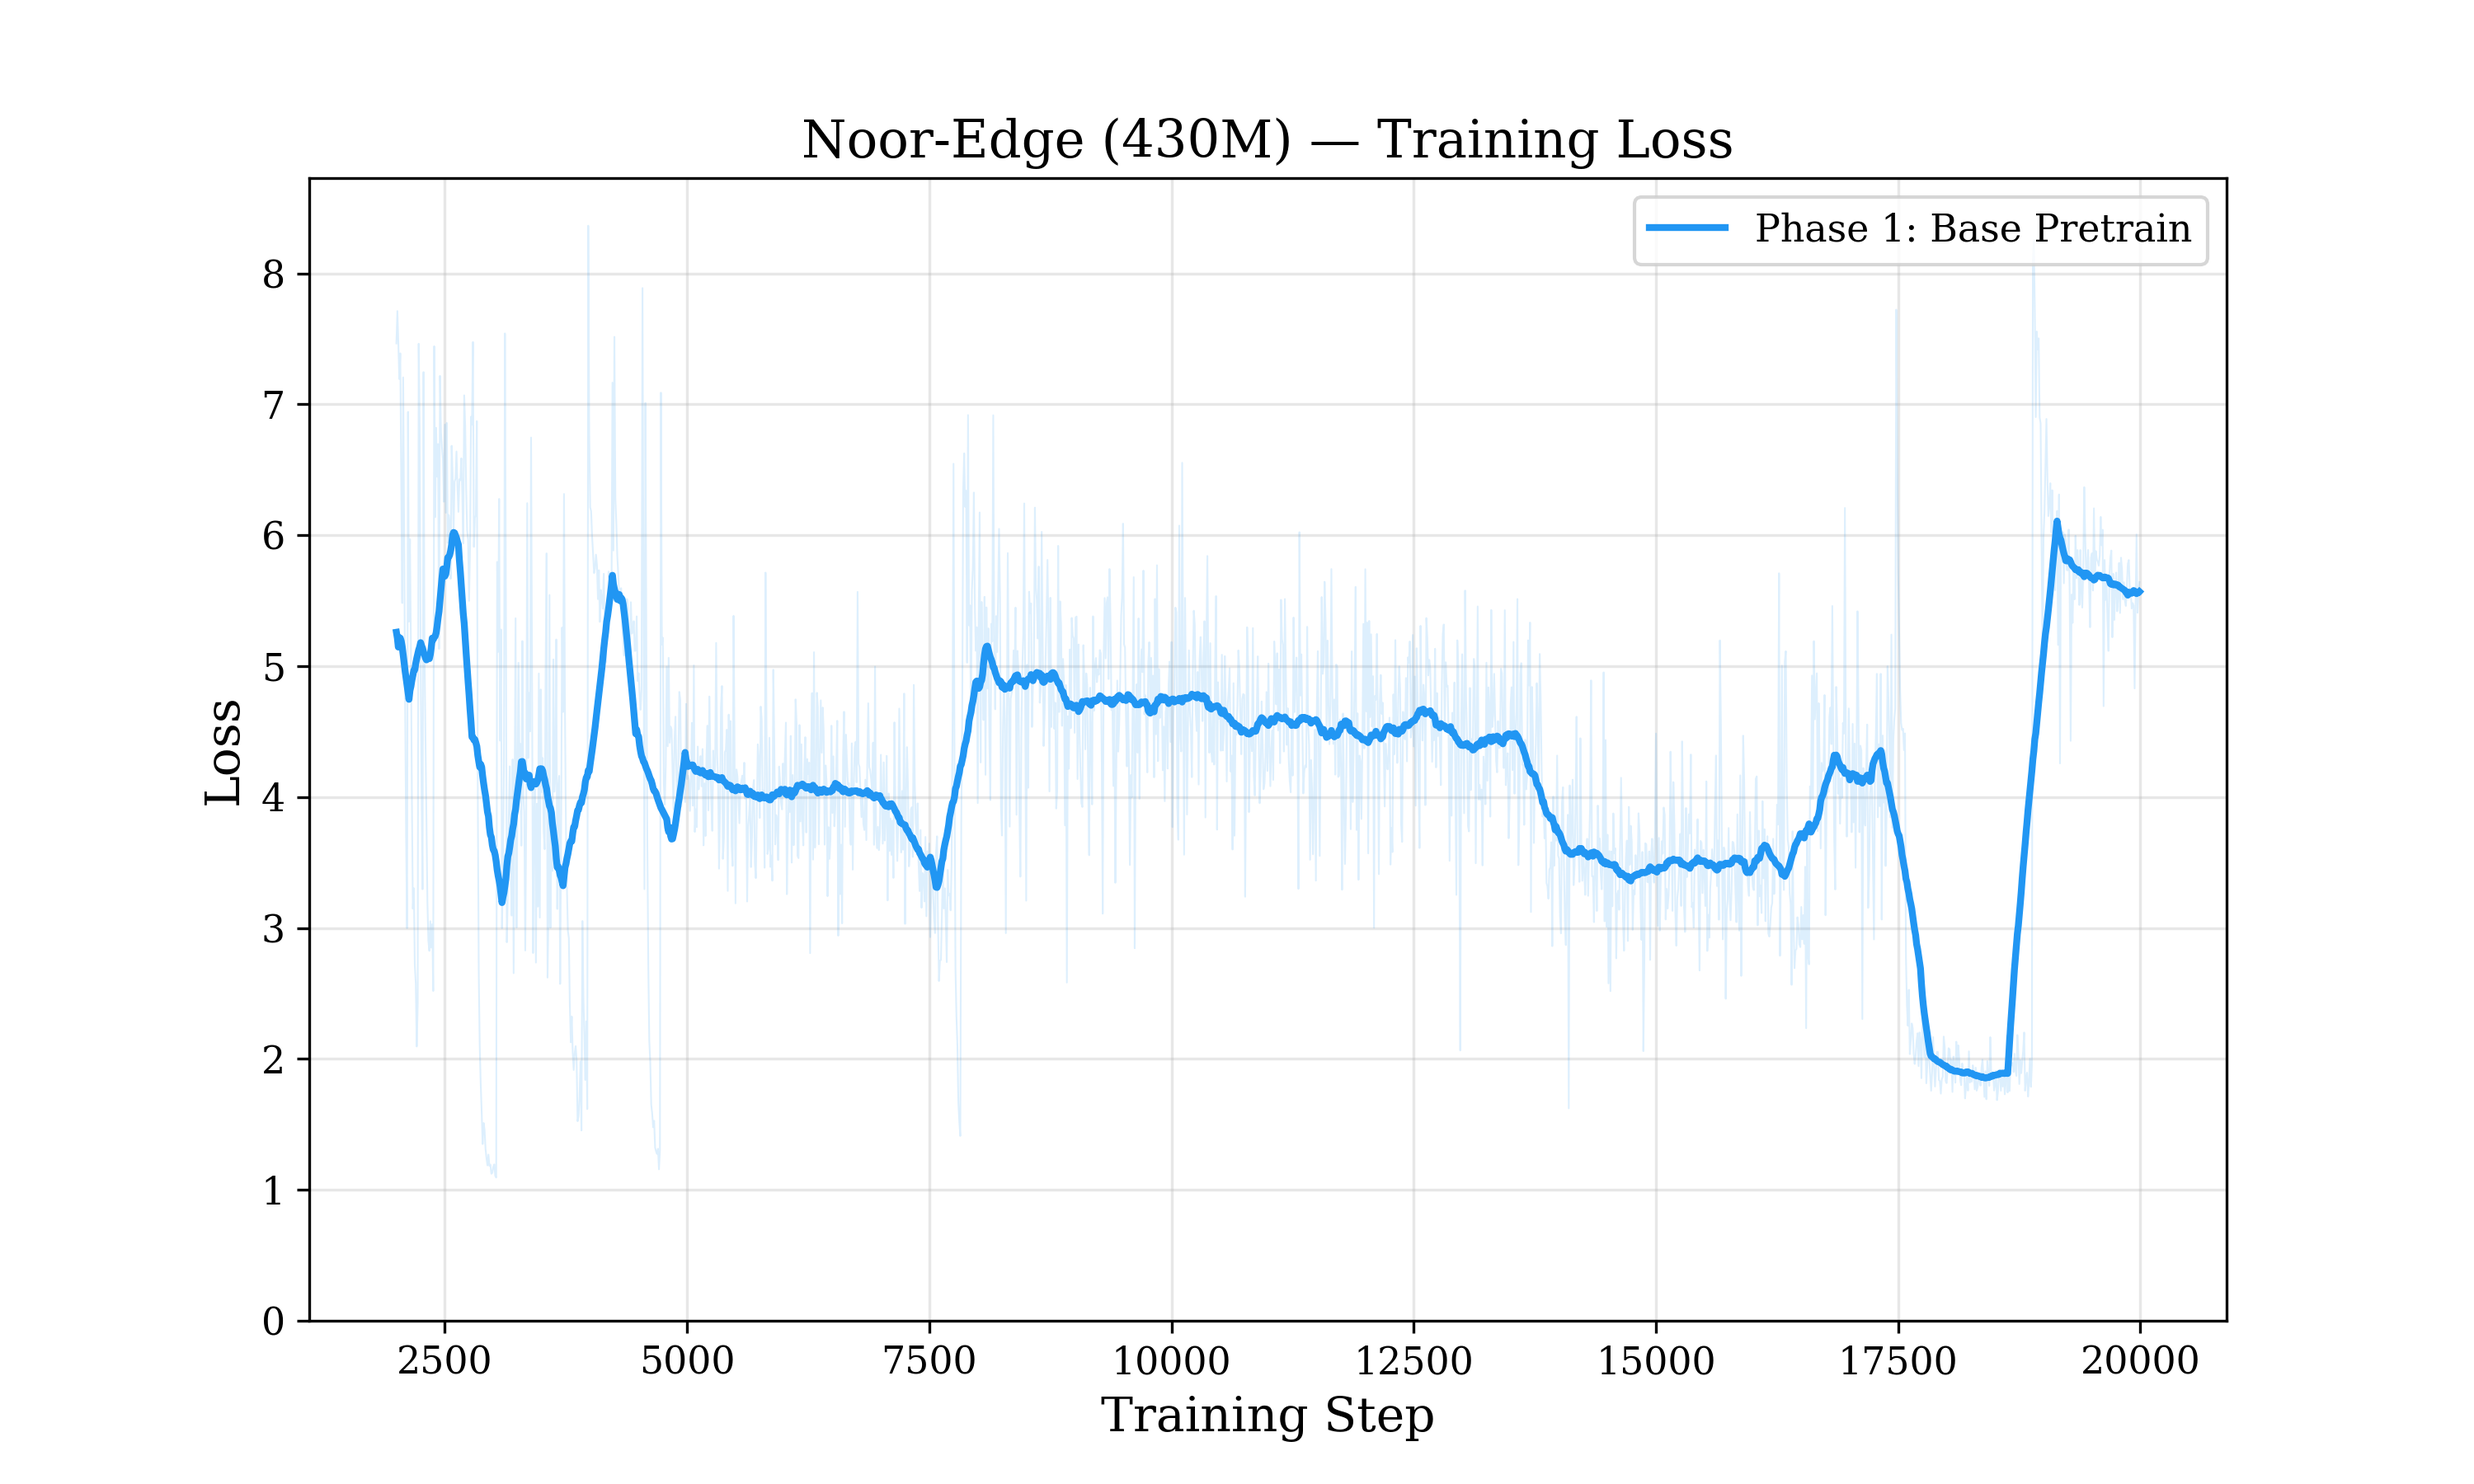
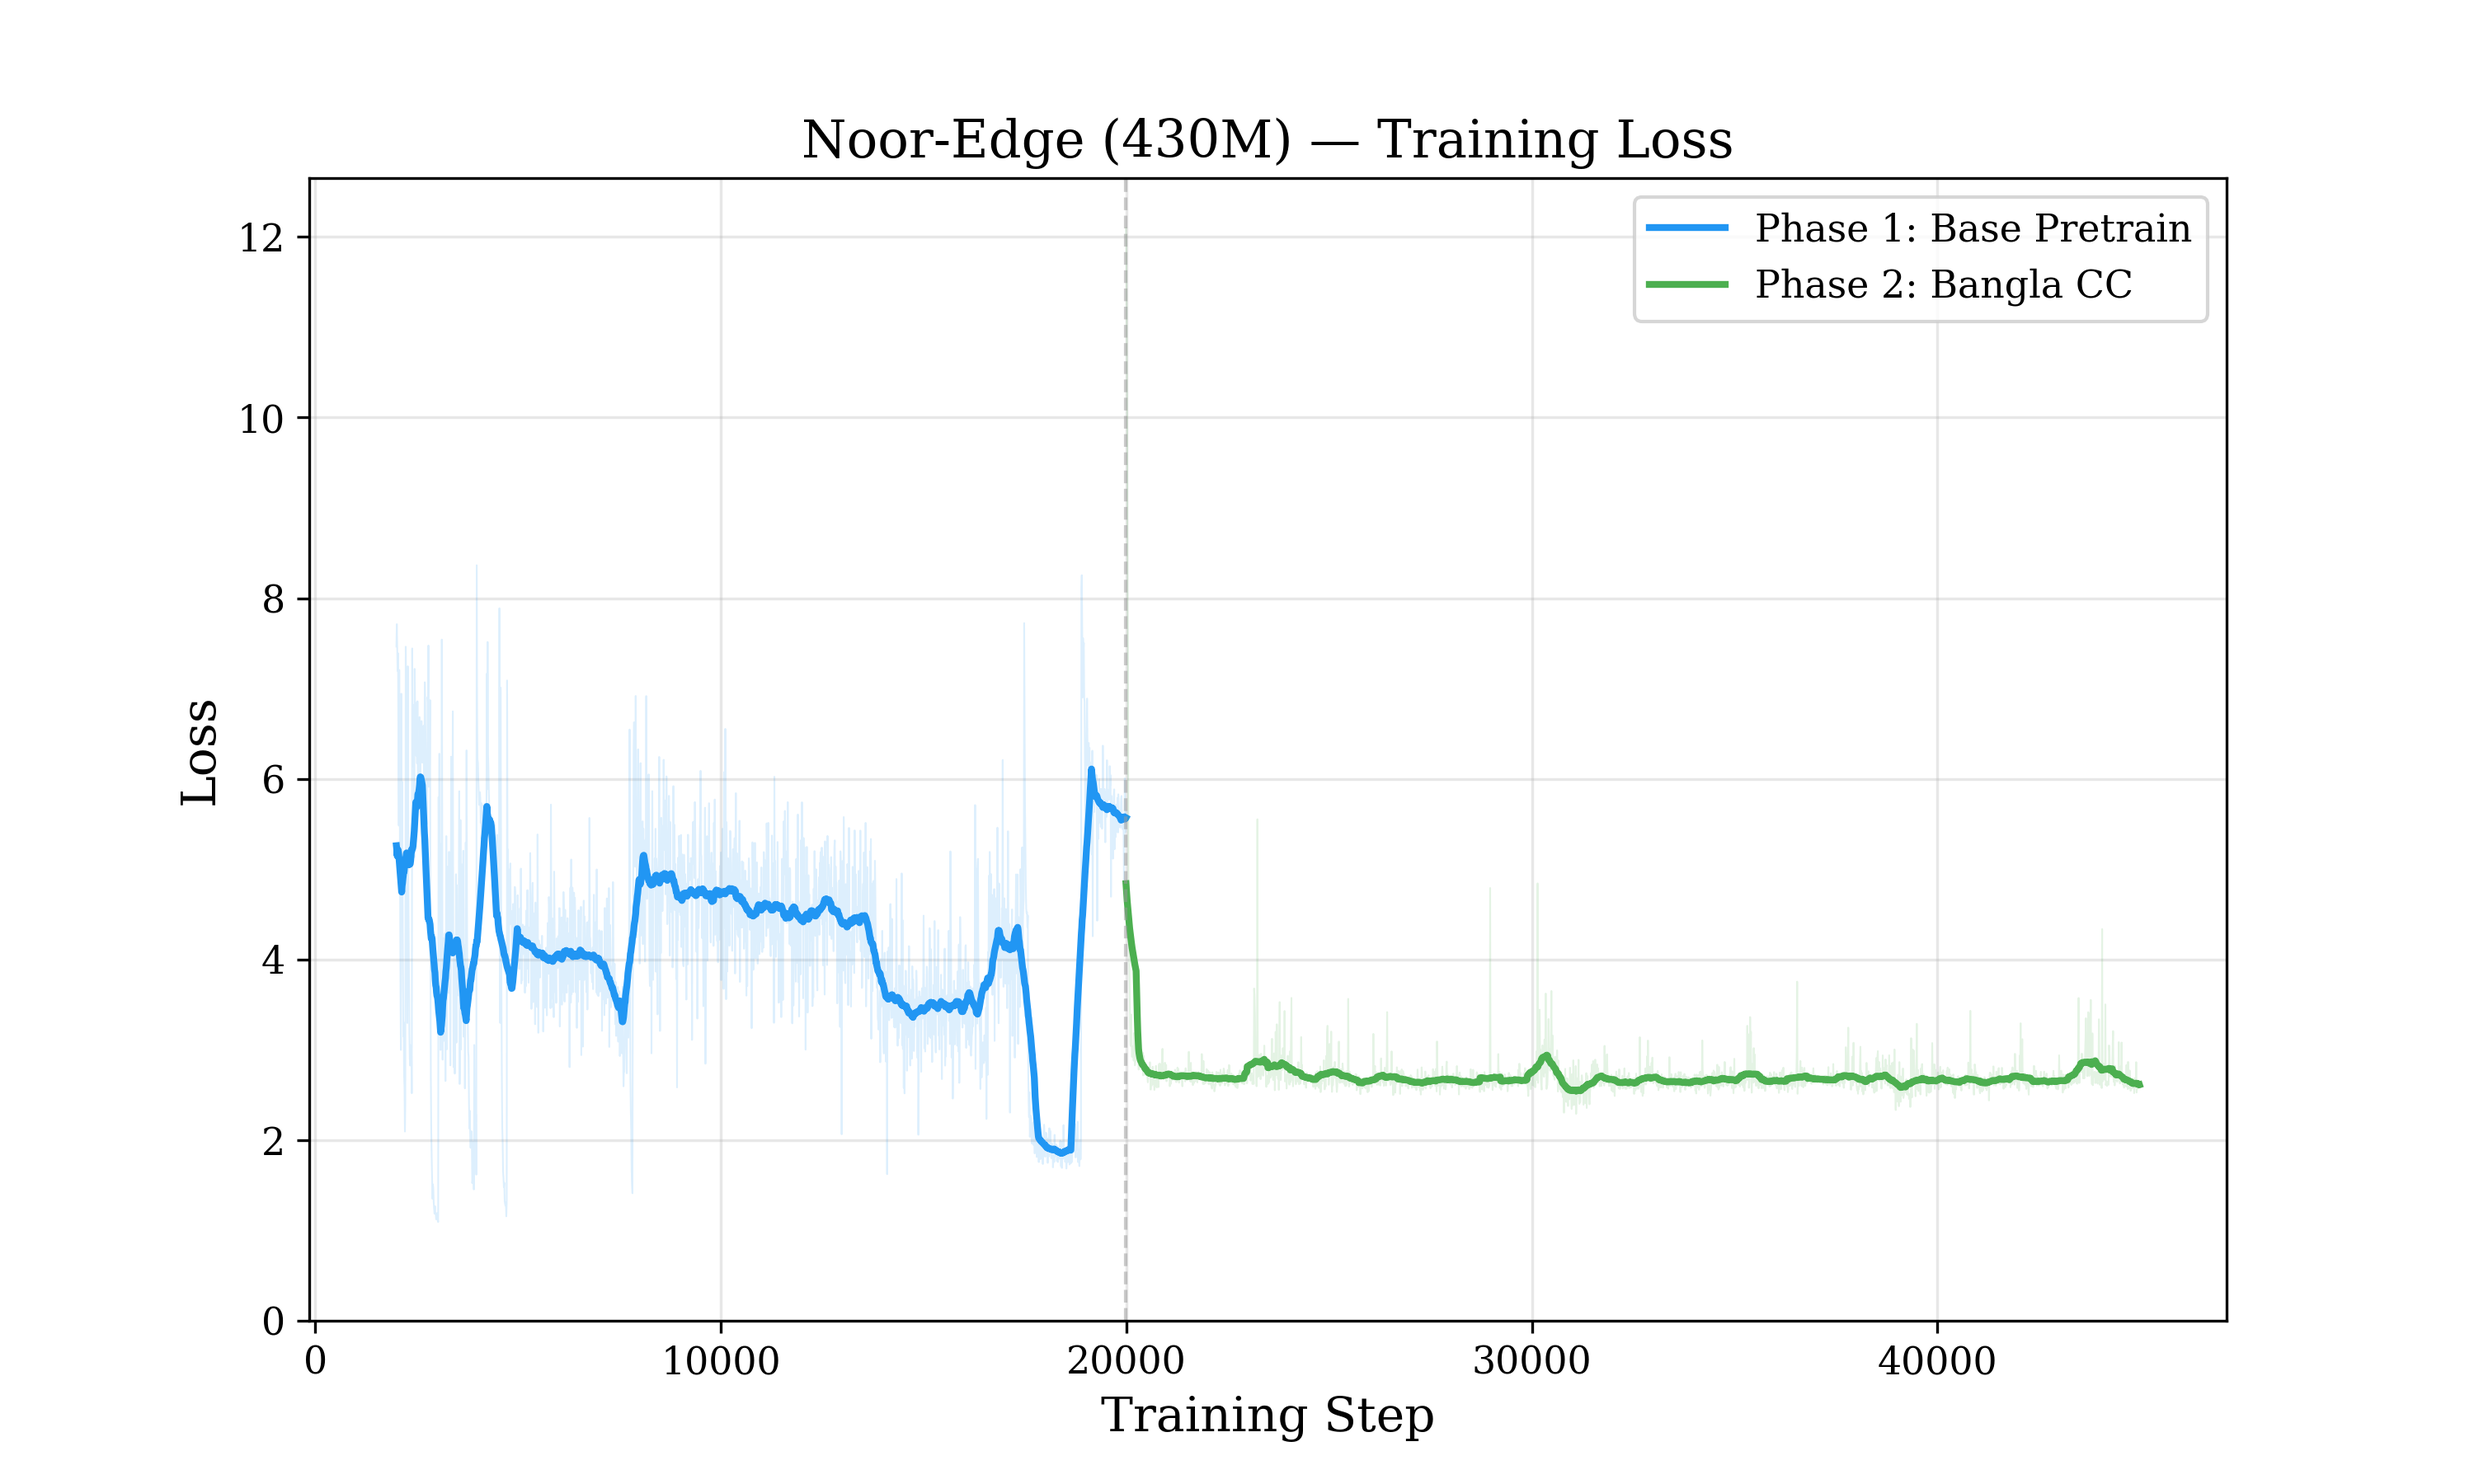
Add Phase 2 (Bangla CC) training figures and update summary
Combined Phase 1+2 loss curve, per-phase detail plots, throughput,
and LR schedule. Phase 2: 25K steps, loss 12.1→2.64, ~2868 tok/s avg.

diff --git a/paper/figures/training_summary.md b/paper/figures/training_summary.md
@@ -3,6 +3,7 @@
 | Phase | Steps | Start Loss | Final Loss | Min Loss | Avg tok/s | Duration |
 |-------|-------|-----------|-----------|---------|-----------|----------|
 | Phase 1: Base Pretrain | 2000–19990 | 7.4654 | 5.6430 | 1.0937 | 2852 | 248.1 min |
+| Phase 2: Bangla CC | 0–24990 | 12.1013 | 2.6365 | 2.2905 | 2868 | 343.3 min |
 
 ## Model Configuration
 - **Model:** Noor-Edge (2.8B total, 430M active)
@@ -18,4 +19,4 @@
 - `throughput.png` — Tokens/sec over training
 - `lr_schedule.png` — Learning rate schedule
 
-*Generated: 2026-04-08 15:03*
+*Generated: 2026-04-08 18:02*
